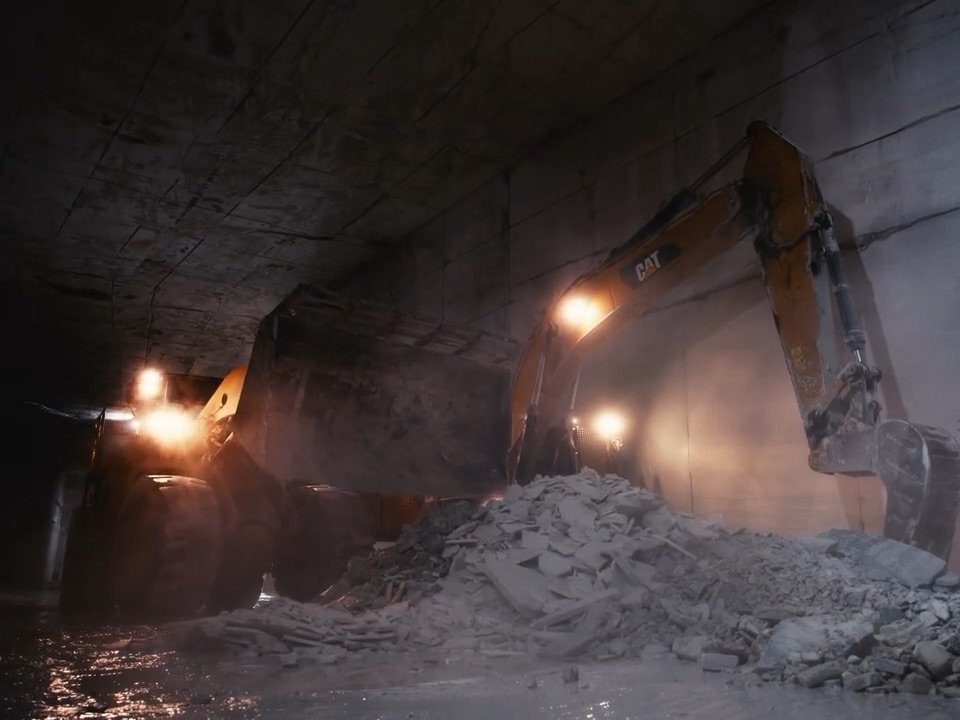
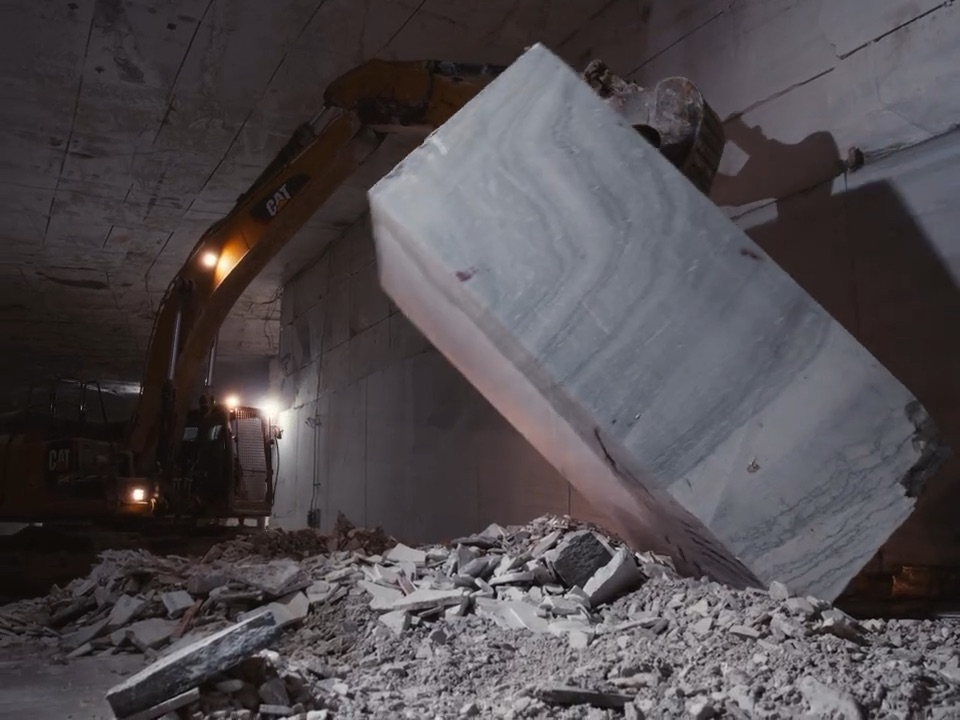
Use 31-second frame for Beneath the Mountain thumbnail

diff --git a/html/aerial.html b/html/aerial.html
@@ -52,7 +52,7 @@
       </li>
       <li>
         <a class="tile" href="aerial/beneath-the-mountain.html" data-video="../videos/Beneath%20the%20Mountain_%20Vermont%20Danby%20Quarry.mp4" data-title="beneath the mountain — vermont danby quarry" data-credit="aerial cinematographer">
-          <img src="../images/stills/beneath-the-mountain.jpg" alt="Excavator working inside the Danby marble quarry in Vermont" loading="lazy" width="1280" height="720">
+          <img src="../images/stills/beneath-the-mountain.jpg" alt="Excavator tipping a massive block of marble inside the Danby quarry in Vermont, from Beneath the Mountain" loading="lazy" width="1280" height="720">
           <span class="tile-title">beneath the mountain — vermont danby quarry</span>
         </a>
       </li>
